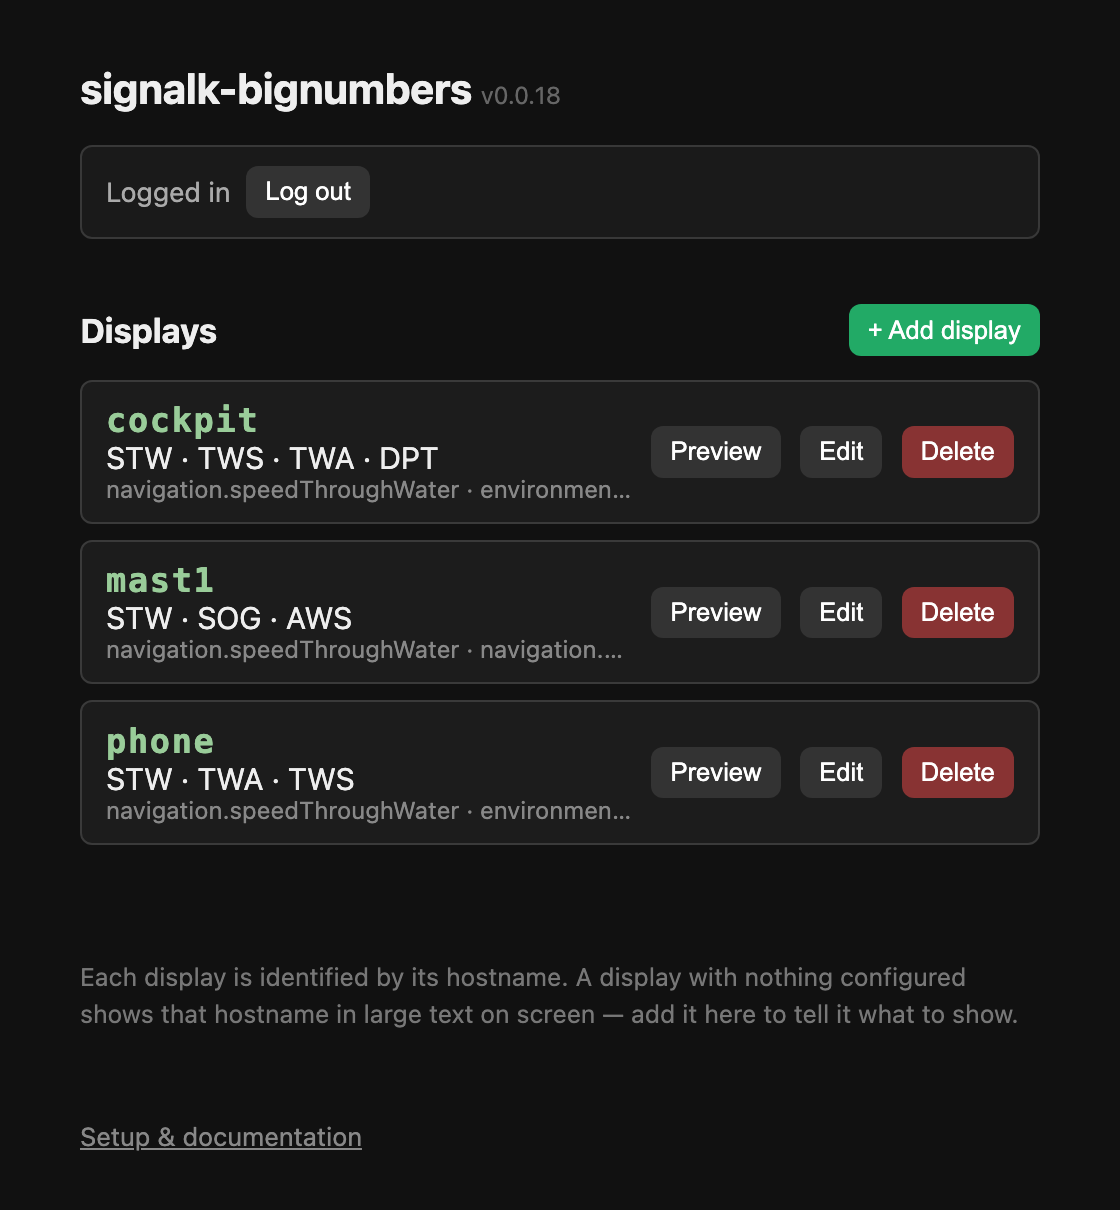
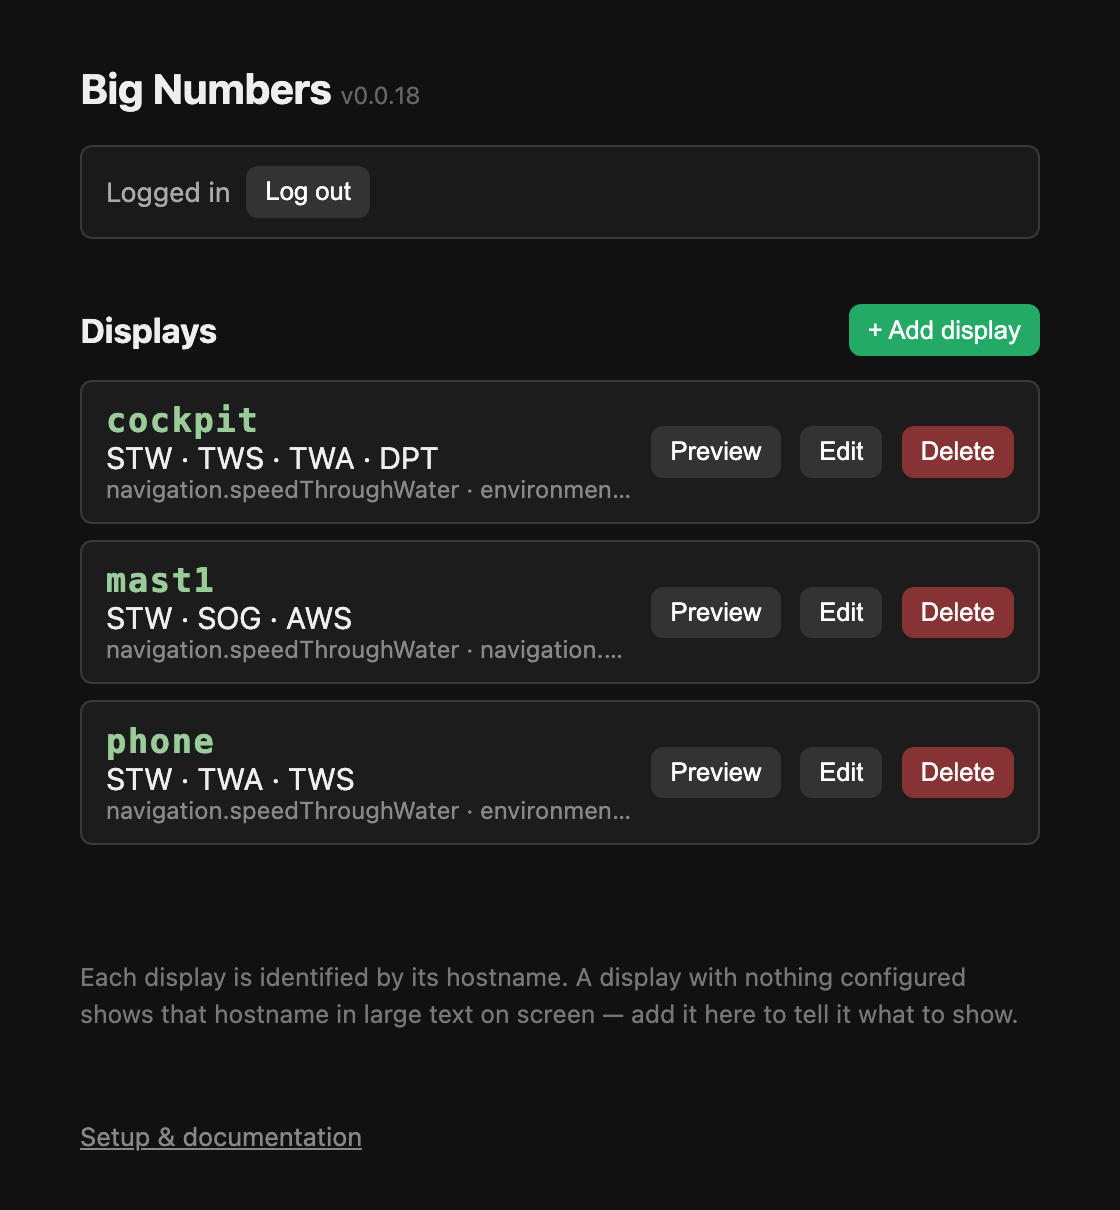
Call it Big Numbers in the Appstore and the webapp
The Appstore showed "signalk-Bignumbers"; the signalk- prefix says
nothing inside SignalK. Only displayName and the page titles change:
the package name, the /signalk-bignumbers/ URL and the applicationData
key stay, so installed boats and kiosk URLs are untouched.

Changed region(s): [[0.0625, 0.0612, 0.5, 0.0917]]

diff --git a/public/instrument.html b/public/instrument.html
@@ -3,7 +3,7 @@
 <head>
 <meta charset="UTF-8">
 <meta name="viewport" content="width=device-width, initial-scale=1">
-<title>signalk-bignumbers</title>
+<title>Big Numbers</title>
 <style>
   @font-face {
     font-family: "Roboto Medium";
@@ -347,7 +347,7 @@
   }
 
   function showError(message) {
-    document.title = "signalk-bignumbers — error";
+    document.title = "Big Numbers — error";
     const box = document.createElement("div");
     box.className = "error";
     box.textContent = message;
@@ -367,7 +367,7 @@
     id.textContent = displayId;
     const hint = document.createElement("div");
     hint.className = "hint";
-    hint.textContent = "Not configured yet — add this hostname in the signalk-bignumbers webapp";
+    hint.textContent = "Not configured yet — add this hostname in the Big Numbers webapp";
     box.append(id, hint);
     showMessage(box);
   }

diff --git a/public/index.html b/public/index.html
@@ -3,7 +3,7 @@
 <head>
 <meta charset="UTF-8">
 <meta name="viewport" content="width=device-width, initial-scale=1">
-<title>signalk-bignumbers</title>
+<title>Big Numbers</title>
 <style>
   html, body {
     margin: 0;
@@ -248,7 +248,7 @@
 </head>
 <body>
 <main>
-  <h1>signalk-bignumbers <span class="version">v0.0.18</span></h1>
+  <h1>Big Numbers <span class="version">v0.0.18</span></h1>
 
   <div class="authbar">
     <span id="authState">Not logged in</span>

diff --git a/README.md b/README.md
@@ -62,7 +62,7 @@ touch.
 Five minutes, using a phone as the display.
 
 **1. Install the webapp** — the only thing that gets installed anywhere.
-In SignalK's admin UI: *Appstore → Available*, find `signalk-bignumbers`,
+In SignalK's admin UI: *Appstore → Available*, find **Big Numbers**,
 **Install**, then restart the server.
 
 **2. Open this on the phone.** Substitute your own server address for
@@ -185,7 +185,7 @@ npm install github:ghotihook/signalk-bignumbers#0.0.18
 
 `cd ~/.signalk` matters: signalk-server scans that directory's
 `node_modules` for webapps at startup, so anywhere else leaves it
-invisible. Either way, **signalk-bignumbers** appears in the Webapps menu
+invisible. Either way, **Big Numbers** appears in the Webapps menu
 after the restart, served at
 `http://<your-server>:3000/signalk-bignumbers/`.
 
